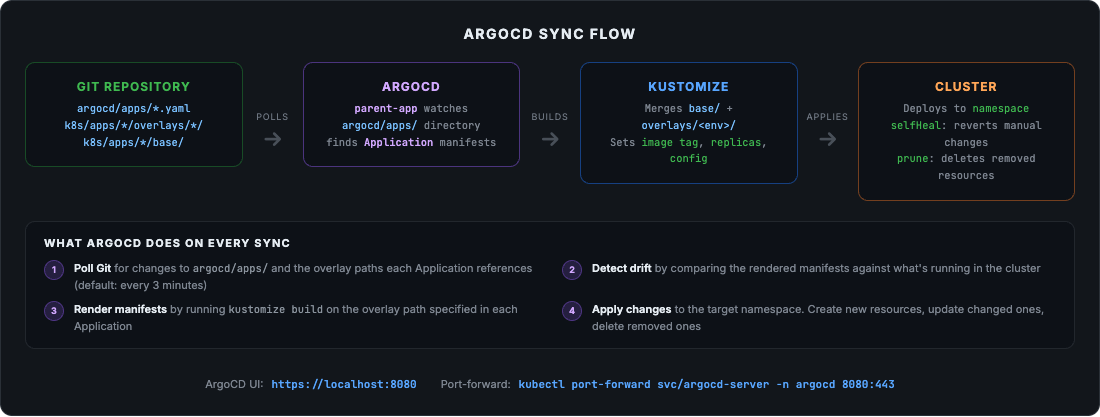
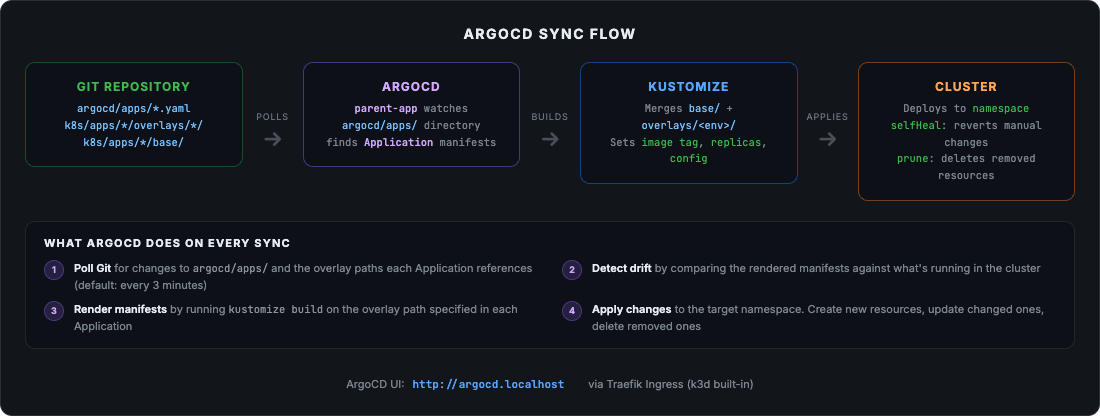
Set up Ingress for ArgoCD, Kargo, and frontend app
- ArgoCD: enable server.insecure + ingress in Helm values (argocd.localhost)
- Kargo: create Ingress resource during init-cluster (kargo.localhost)
- Frontend: add Ingress manifest to deployment example (app.localhost)
- All use k3d's built-in Traefik, no port-forwarding needed
- Update all URLs in README and flow diagrams
- Regenerate flow diagram PNGs

Changed region(s): [[0.1855, 0.9041, 0.8345, 0.9353]]

diff --git a/docs/argocd-flow.html b/docs/argocd-flow.html
@@ -320,15 +320,14 @@
     </div>
   </div>
 
-  <!-- Access URLs -->
+  <!-- Access URL -->
   <div class="access-bar">
     <div class="access-item">
       <span class="access-label">ArgoCD UI:</span>
-      <span class="access-url">https://localhost:8080</span>
+      <span class="access-url">http://argocd.localhost</span>
     </div>
     <div class="access-item">
-      <span class="access-label">Port-forward:</span>
-      <span class="access-url">kubectl port-forward svc/argocd-server -n argocd 8080:443</span>
+      <span class="access-label">via Traefik Ingress (k3d built-in)</span>
     </div>
   </div>
 

diff --git a/docs/kargo-flow.html b/docs/kargo-flow.html
@@ -402,15 +402,14 @@
     </div>
   </div>
 
-  <!-- Access URLs -->
+  <!-- Access URL -->
   <div class="access-bar">
     <div class="access-item">
       <span class="access-label">Kargo UI:</span>
-      <span class="access-url">https://localhost:8443</span>
+      <span class="access-url">http://kargo.localhost</span>
     </div>
     <div class="access-item">
-      <span class="access-label">Port-forward:</span>
-      <span class="access-url">kubectl port-forward svc/kargo-api -n kargo 8443:443</span>
+      <span class="access-label">via Traefik Ingress (k3d built-in)</span>
     </div>
   </div>
 

diff --git a/README.md b/README.md
@@ -358,6 +358,29 @@ spec:
 
 `API_URL` tells the frontend's server-side proxy where to forward API requests. The `backend` hostname resolves via the Kubernetes Service created by `add-app`. Firebase config is only needed for admin auth. The image tag in the base manifest is a starting point; per-environment overlays control which version actually runs (via the `images` field in `kustomization.yaml`).
 
+**`k8s/apps/frontend/base/ingress.yaml`:**
+
+```yaml
+apiVersion: networking.k8s.io/v1
+kind: Ingress
+metadata:
+  name: frontend
+spec:
+  rules:
+    - host: app.localhost
+      http:
+        paths:
+          - path: /
+            pathType: Prefix
+            backend:
+              service:
+                name: frontend
+                port:
+                  number: 3000
+```
+
+This makes the frontend accessible at `http://app.localhost` via k3d's built-in Traefik ingress controller (requires ports 80/443 exposed during `cluster-ctl.sh init-cluster`).
+
 **`k8s/apps/postgres/base/statefulset.yaml`:**
 
 ```yaml
@@ -454,9 +477,8 @@ kubectl get applications -n argocd
 # Check running pods
 kubectl get pods -n dev
 
-# Port-forward to access the frontend
-kubectl port-forward svc/frontend -n dev 3000:3000
-# Open http://localhost:3000
+# Open the frontend (no port-forward needed)
+open http://app.localhost
 ```
 
 ### What you end up with
@@ -479,12 +501,9 @@ The `parent-app` Application is the entry point. It watches the `argocd/apps/` d
 
 When you push a change, ArgoCD detects the drift within its polling interval (default 3 minutes), re-renders the manifests via `kustomize build`, and applies the diff. Two policies enforce GitOps discipline: `selfHeal` reverts any manual `kubectl` edits back to match Git, and `prune` deletes resources that have been removed from the repo. Git is the single source of truth; the cluster converges to match it.
 
-To access the ArgoCD dashboard:
+ArgoCD is accessible at `http://argocd.localhost` (username: `admin`). Get the initial password with:
 
 ```bash
-kubectl port-forward svc/argocd-server -n argocd 8080:443
-# Open https://localhost:8080 (username: admin)
-# Get the password:
 kubectl -n argocd get secret argocd-initial-admin-secret -o jsonpath='{.data.password}' | base64 -d
 ```
 
@@ -500,17 +519,14 @@ Each Stage promotion is a four-step process: clear the git worktree, update the 
 
 Kargo doesn't replace ArgoCD; it feeds it. Kargo writes to Git, ArgoCD reads from Git and deploys. They work together but can operate independently.
 
-To access the Kargo dashboard:
-
-```bash
-kubectl port-forward svc/kargo-api -n kargo 8443:443
-# Open https://localhost:8443
-```
+The Kargo dashboard is accessible at `http://kargo.localhost`.
 
 ### Local Access URLs
 
-| Service | URL | Port-forward command |
-|---------|-----|---------------------|
-| ArgoCD UI | https://localhost:8080 | `kubectl port-forward svc/argocd-server -n argocd 8080:443` |
-| Kargo UI | https://localhost:8443 | `kubectl port-forward svc/kargo-api -n kargo 8443:443` |
-| Frontend app | http://localhost:3000 | `kubectl port-forward svc/frontend -n dev 3000:3000` |
+All services are accessible via Ingress on `.localhost` domains (requires ports 80/443 exposed during `cluster-ctl.sh init-cluster`). No port-forwarding needed.
+
+| Service | URL | Notes |
+|---------|-----|-------|
+| ArgoCD UI | http://argocd.localhost | username: `admin`, password: see `kubectl -n argocd get secret argocd-initial-admin-secret -o jsonpath='{.data.password}' \| base64 -d` |
+| Kargo UI | http://kargo.localhost | Ingress created by `cluster-ctl.sh` during Kargo install |
+| Frontend app | http://app.localhost | Requires Ingress in `k8s/apps/frontend/base/ingress.yaml` |
